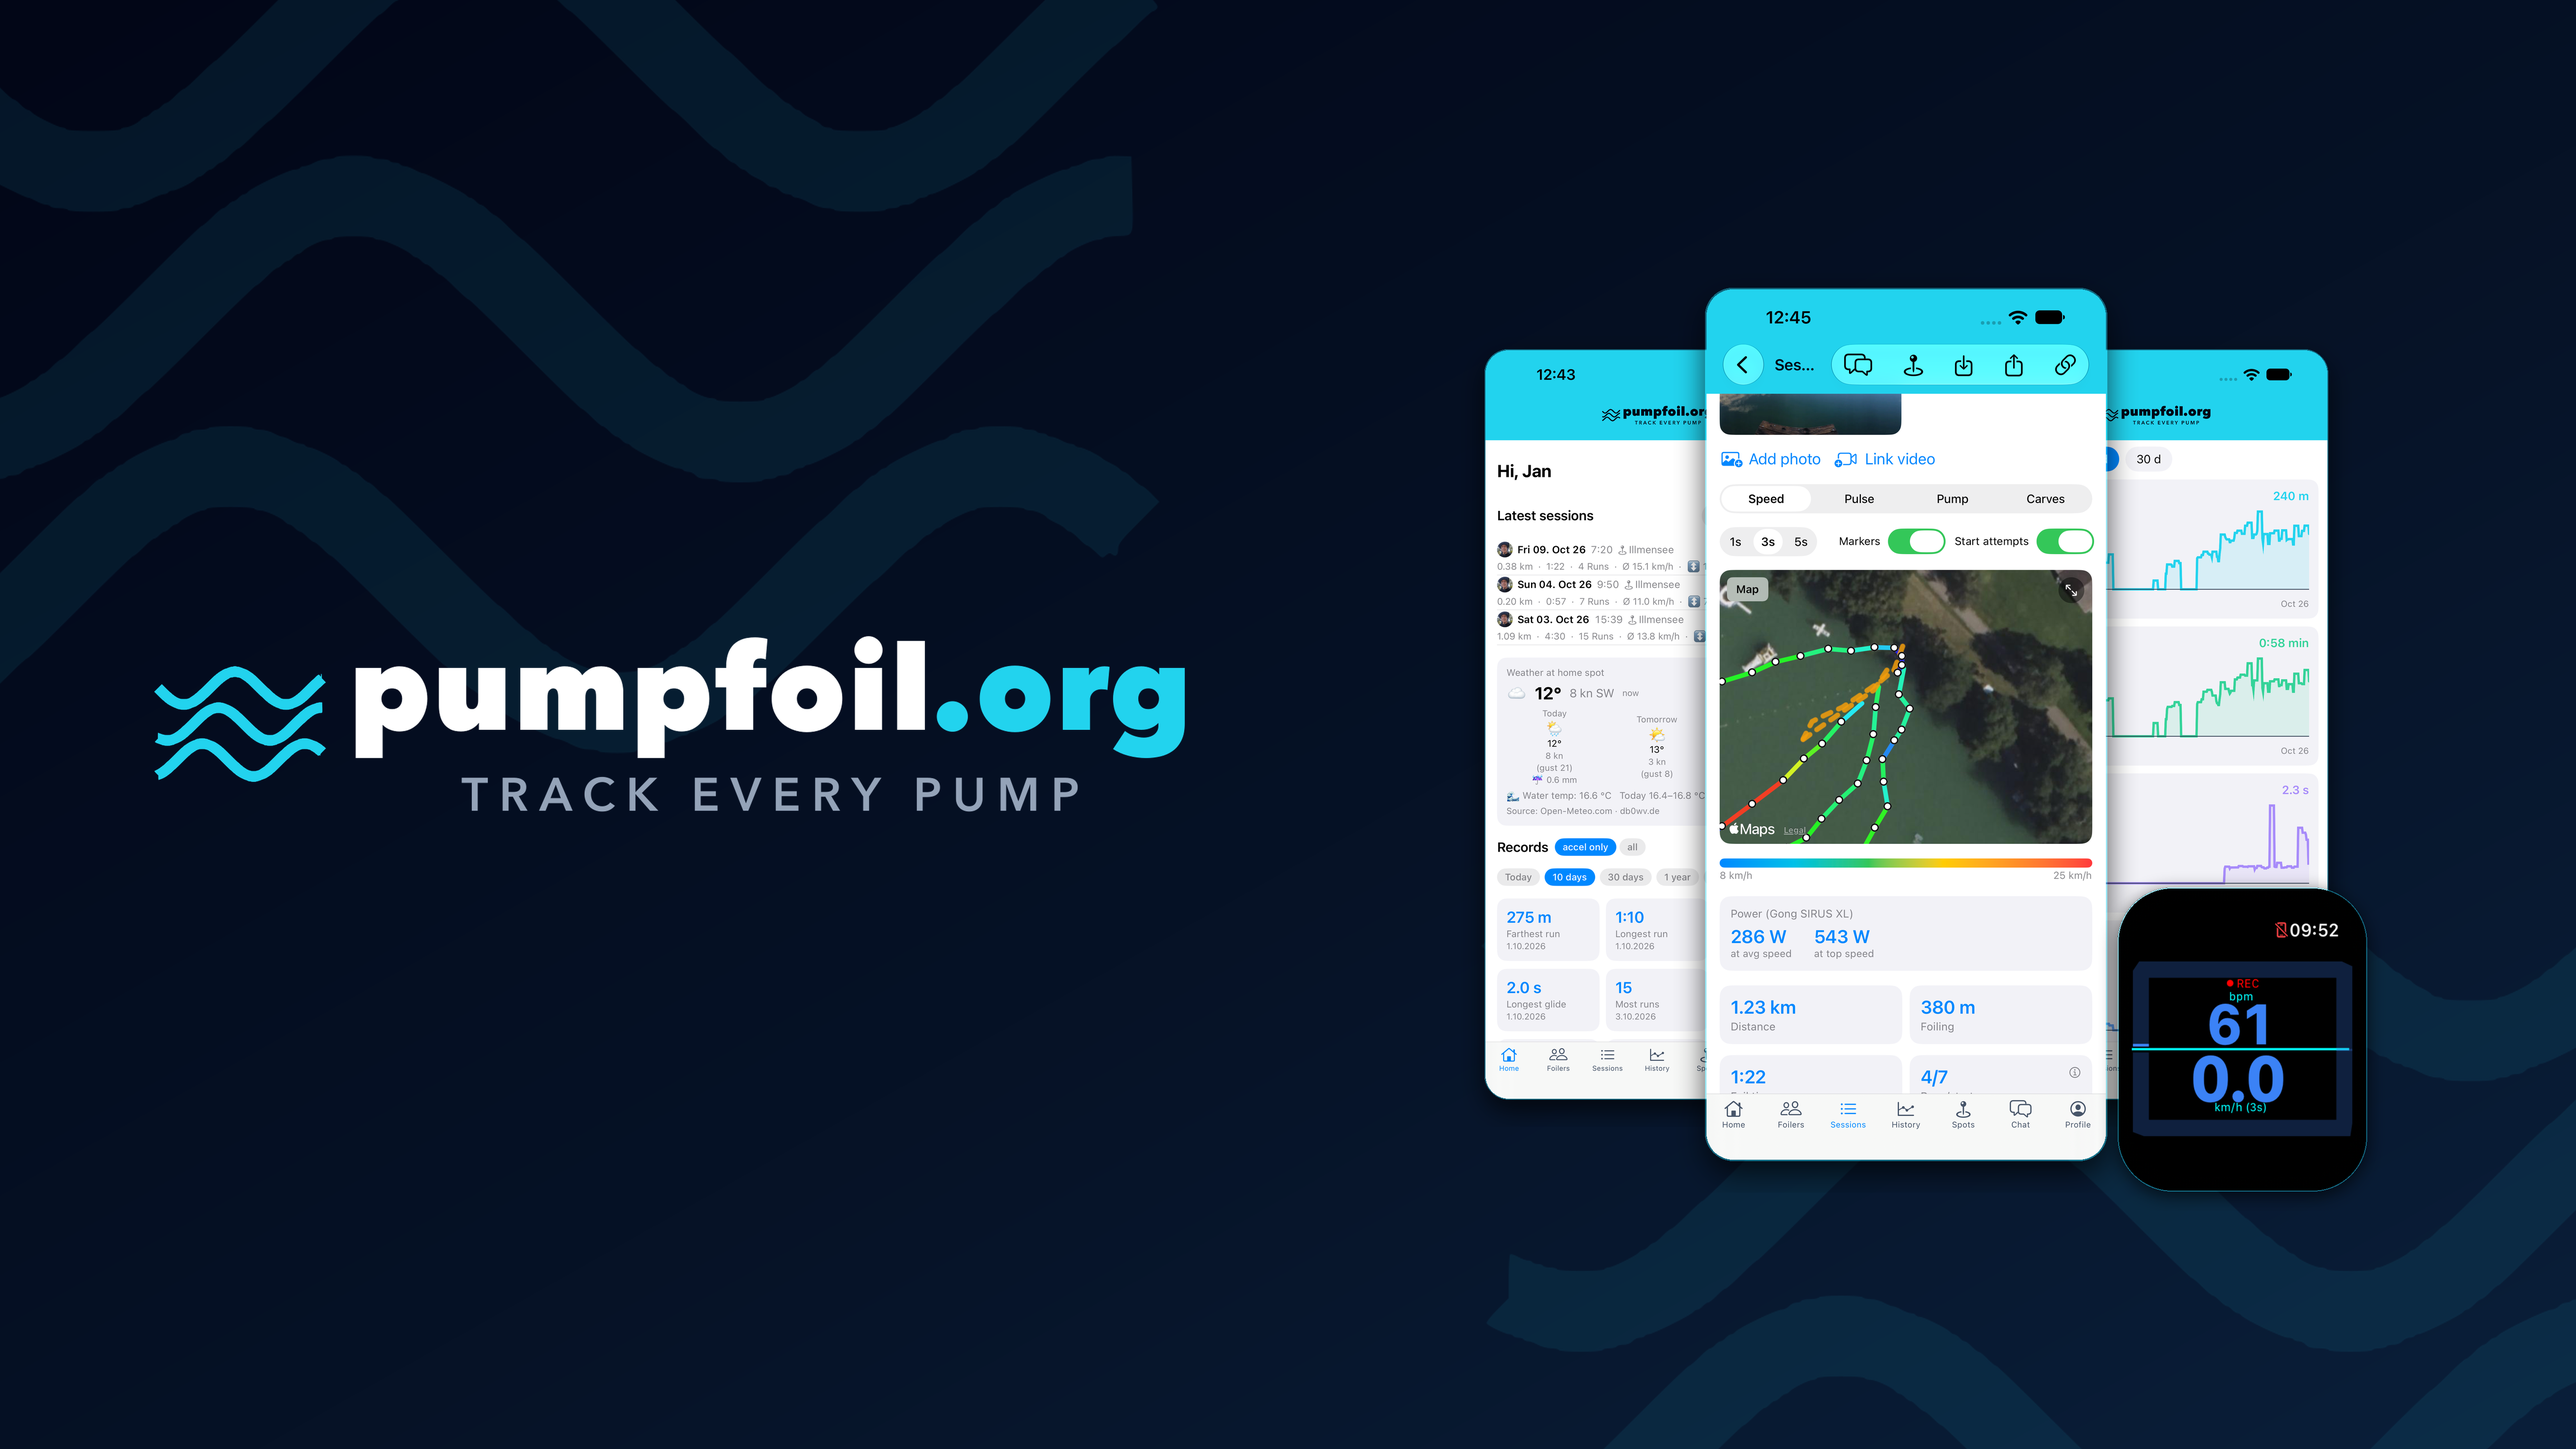
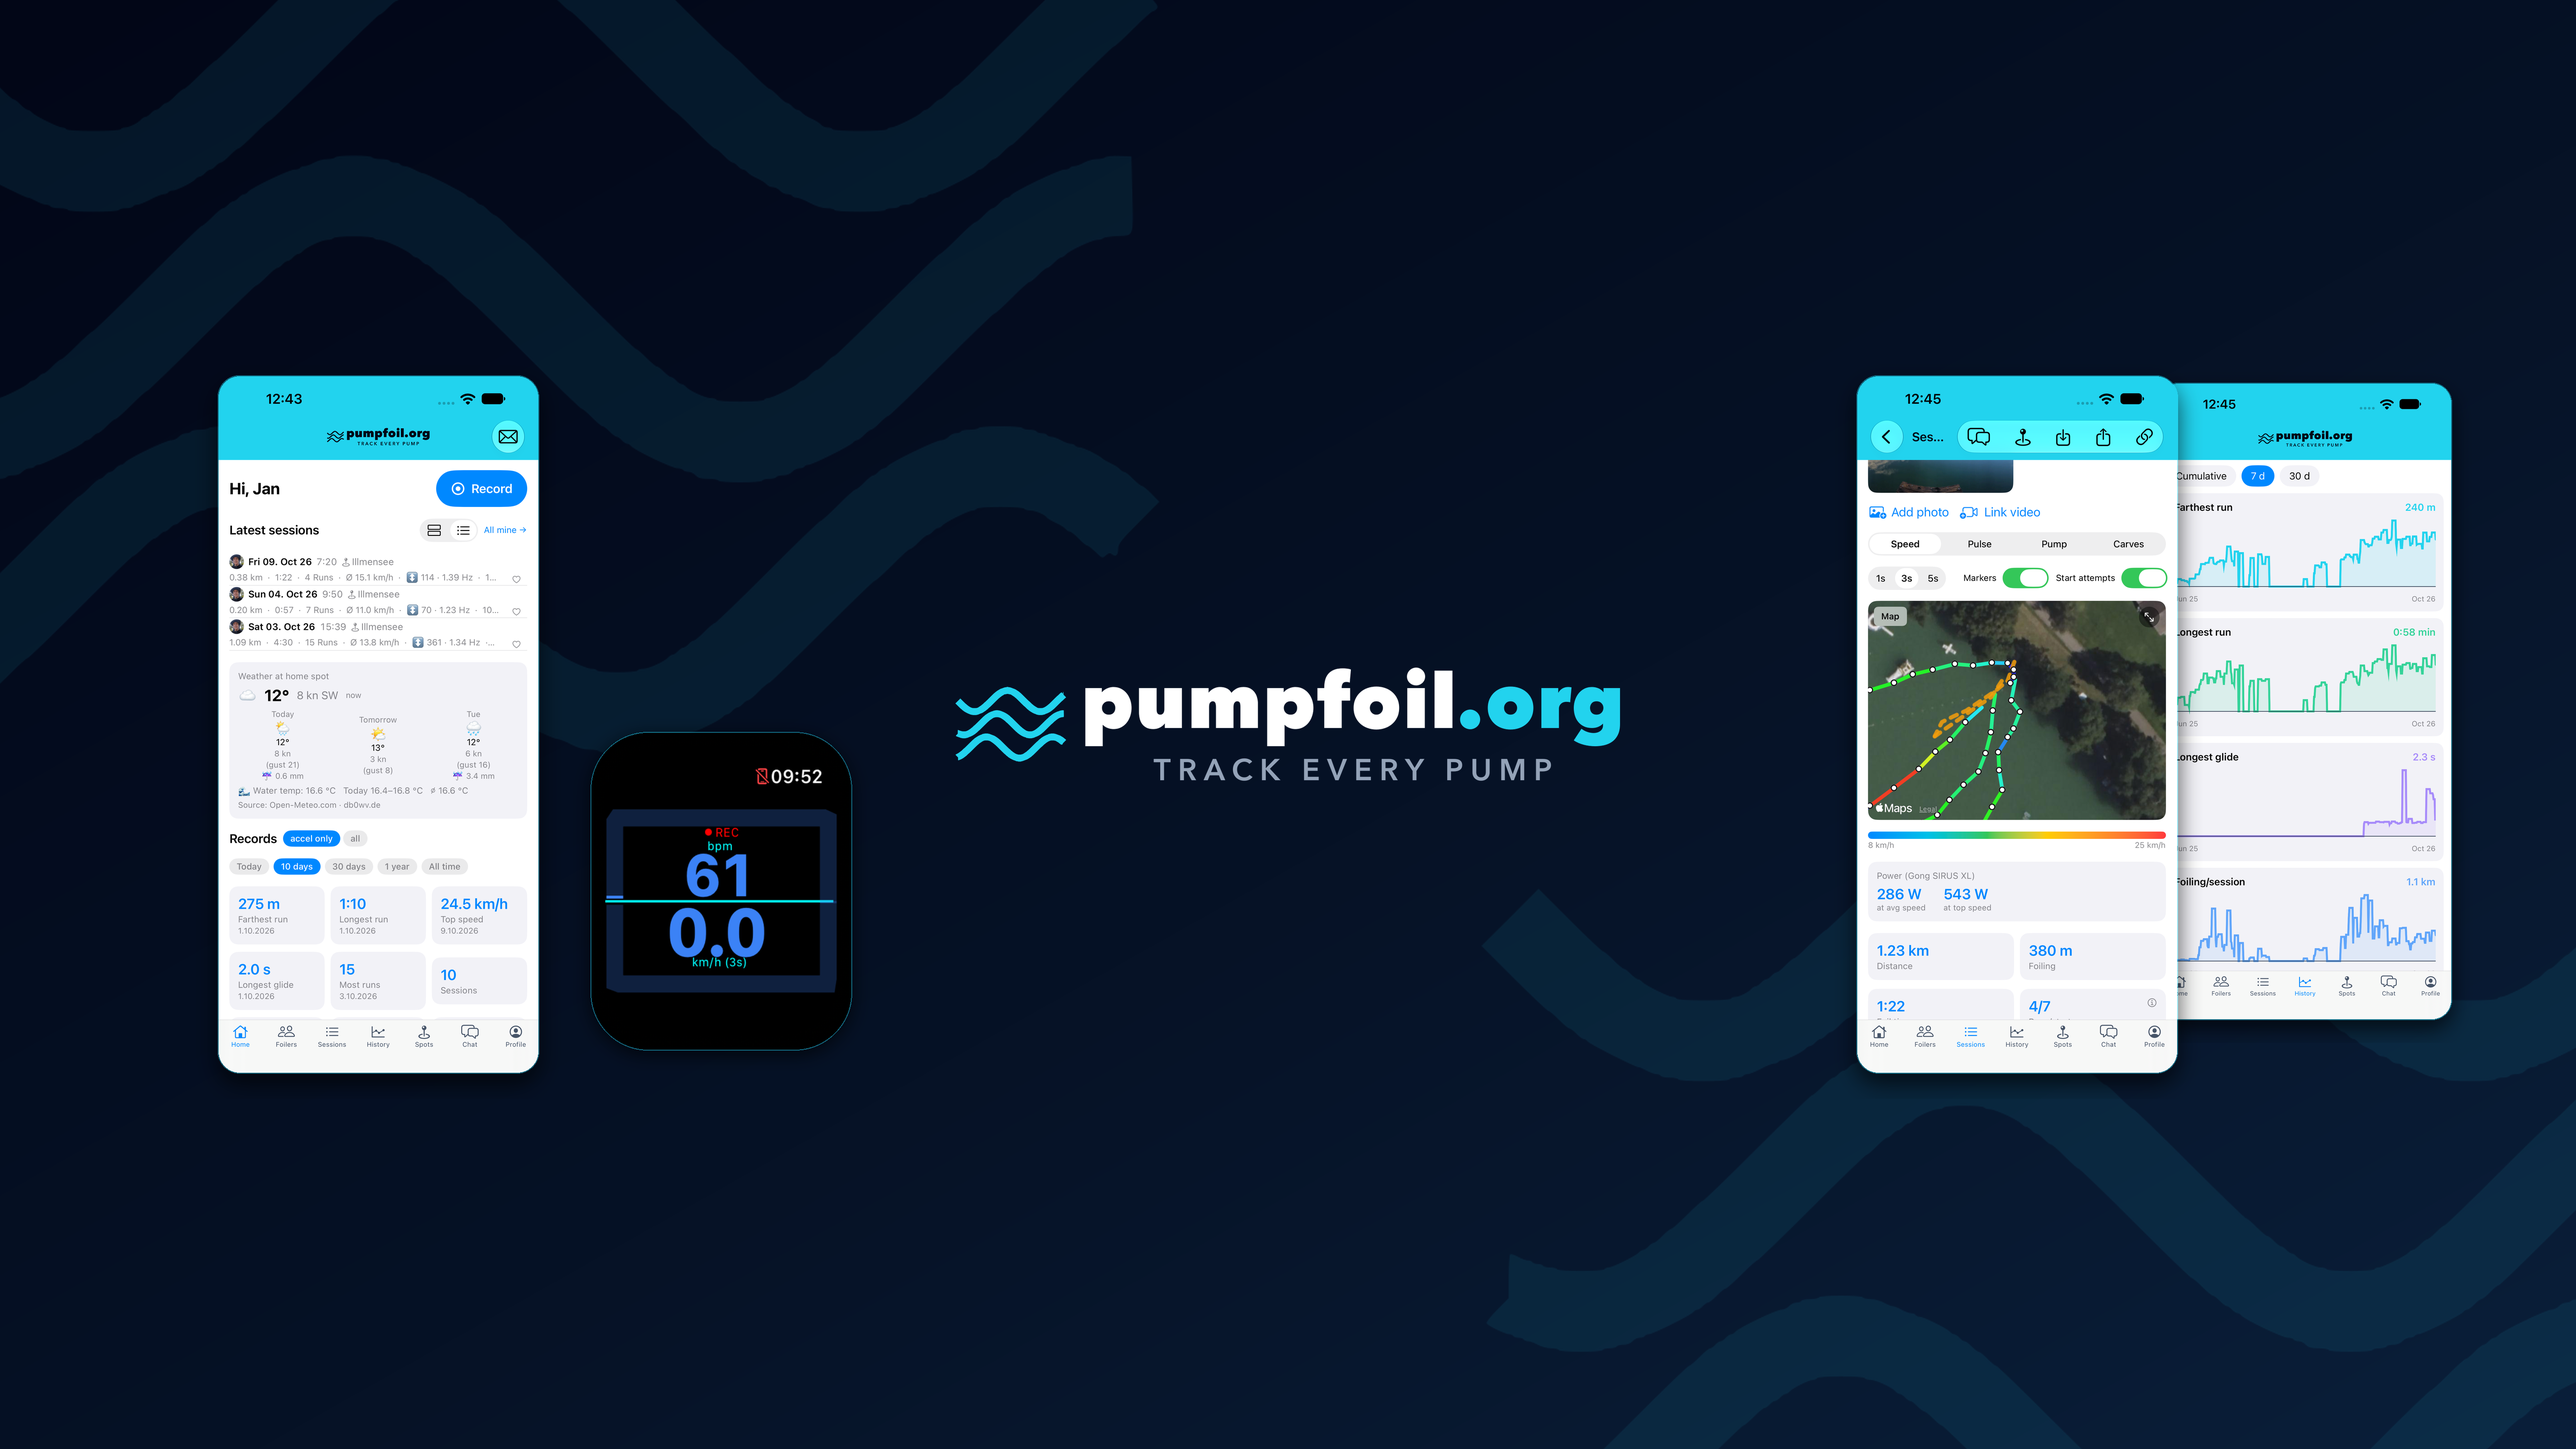
App-Store-Kopfzeile: Lockup mittig fuer den iPhone-Ausschnitt, Screens links/rechts
Die Geraetevorschau zeigte auf dem iPhone nur die Bildmitte (etwa 1/3 Breite, 40 % Hoehe):
vom links stehenden Lockup nur der Rand. Jetzt steht es genau mittig und passt in den
Ausschnitt; Screens und Uhr flankieren es (iPad/Mac).

Claude-Session: https://claude.ai/code/session_01SwpsW3PioXLbF9Wo2iJrfq

Changed region(s): [[0.0622, 0.1871, 0.9636, 0.842]]

diff --git a/brand/master/appstore_header.py b/brand/master/appstore_header.py
@@ -69,6 +69,14 @@ def gerahmt(img, breite, radius_anteil=0.07):
     return out, pad
 
 
+# Was das iPhone zeigt (Jan, 12.10.2026, Geraetevorschau in App Store Connect): nur einen kleinen
+# MITTIGEN Ausschnitt, etwa ein Drittel der Breite und 40 % der Hoehe. Die erste Fassung hatte
+# das Lockup links und die Screens rechts — auf dem iPhone sah man davon nur die Raender. Jetzt
+# steht das Lockup genau in der Mitte und passt in diesen Ausschnitt; die Screens flankieren es
+# links und rechts und sind auf iPad/Mac zu sehen.
+MITTE_B, MITTE_H = 0.30, 0.36
+
+
 def bauen(W, H, band_h):
     base = verlauf(W, H)
     wm = gen.render_waves(gen.CYAN, int(H * 0.6))
@@ -76,28 +84,27 @@ def bauen(W, H, band_h):
         faint = wm.copy(); faint.putalpha(faint.split()[3].point(lambda v: int(v * 0.08)))
         layer = Image.new("RGBA", base.size, (0, 0, 0, 0)); layer.alpha_composite(faint, (x, y))
         base.alpha_composite(layer)
-    top = (H - band_h) // 2                    # mittleres Band, das jeder Zuschnitt behaelt
-    # Links: Lockup, auf 42 % der Breite, vertikal mittig im Band
+    top = (H - band_h) // 2
+    # Seiten zuerst (liegen hinter dem Lockup, falls sie sich beruehren)
+    sh = int(band_h * 0.80)
+    bilder = {n: Image.open(os.path.join(IOS, f"{n:02d}.png")) for n in SCREENS}
+    ratio = bilder[SCREENS[0]].width / bilder[SCREENS[0]].height
+    rand = W * (1 - MITTE_B) / 2               # Breite je Seitenfeld
+    def setze(img, f, cx, cy, radius=0.07):
+        g, pad = gerahmt(img, int(sh * f * ratio) if radius < 0.2 else int(sh * f * 0.82), radius)
+        base.alpha_composite(g, (int(cx - g.width / 2), int(cy - g.height / 2)))
+    cy = top + band_h / 2
+    # links: Startseite, davor die Uhr
+    setze(bilder[SCREENS[0]], 0.92, rand * 0.42, cy)
+    setze(Image.open(UHR), 0.42, rand * 0.80, cy + sh * 0.22, radius=0.22)
+    # rechts: Lauf auf der Karte vorn, Fortschritt dahinter
+    setze(bilder[SCREENS[2]], 0.84, W - rand * 0.30, cy - sh * 0.03)
+    setze(bilder[SCREENS[1]], 0.92, W - rand * 0.62, cy)
+    # Mitte: Lockup, passt in den Ausschnitt, den das iPhone zeigt
     block = lockup_block()
-    s = min(W * 0.40 / block.width, band_h * 0.4 / block.height)
+    s = min(W * MITTE_B * 0.86 / block.width, H * MITTE_H * 0.70 / block.height)
     block = block.resize((round(block.width * s), round(block.height * s)), Image.LANCZOS)
-    base.alpha_composite(block, (int(W * 0.06), top + (band_h - block.height) // 2))
-    # Rechts: drei iPhone-Screens gestaffelt, mittlerer vorn und groesser, davor die Uhr
-    sh = int(band_h * 0.92)                    # Hoehe des mittleren Screens
-    bilder = [Image.open(os.path.join(IOS, f"{n:02d}.png")) for n in SCREENS]
-    ratio = bilder[0].width / bilder[0].height
-    mitte_x = int(W * 0.74)
-    for i, (img, f, dx) in enumerate(((bilder[0], 0.86, -0.62), (bilder[2], 0.86, 0.62), (bilder[1], 1.0, 0.0))):
-        b = int(sh * f * ratio)
-        g, pad = gerahmt(img, b)
-        x = mitte_x + int(dx * sh * ratio) - g.width // 2
-        y = top + (band_h - g.height) // 2
-        base.alpha_composite(g, (x, y))
-    uhr = Image.open(UHR).convert("RGBA")
-    ub = int(sh * ratio * 0.62)
-    g, pad = gerahmt(uhr, ub, radius_anteil=0.22)
-    base.alpha_composite(g, (mitte_x + int(sh * ratio * 0.62) - g.width // 2 + int(ub * 0.35),
-                             top + band_h - g.height + int(pad * 0.6)))
+    base.alpha_composite(block, ((W - block.width) // 2, (H - block.height) // 2))
     return base.convert("RGB")
 
 
